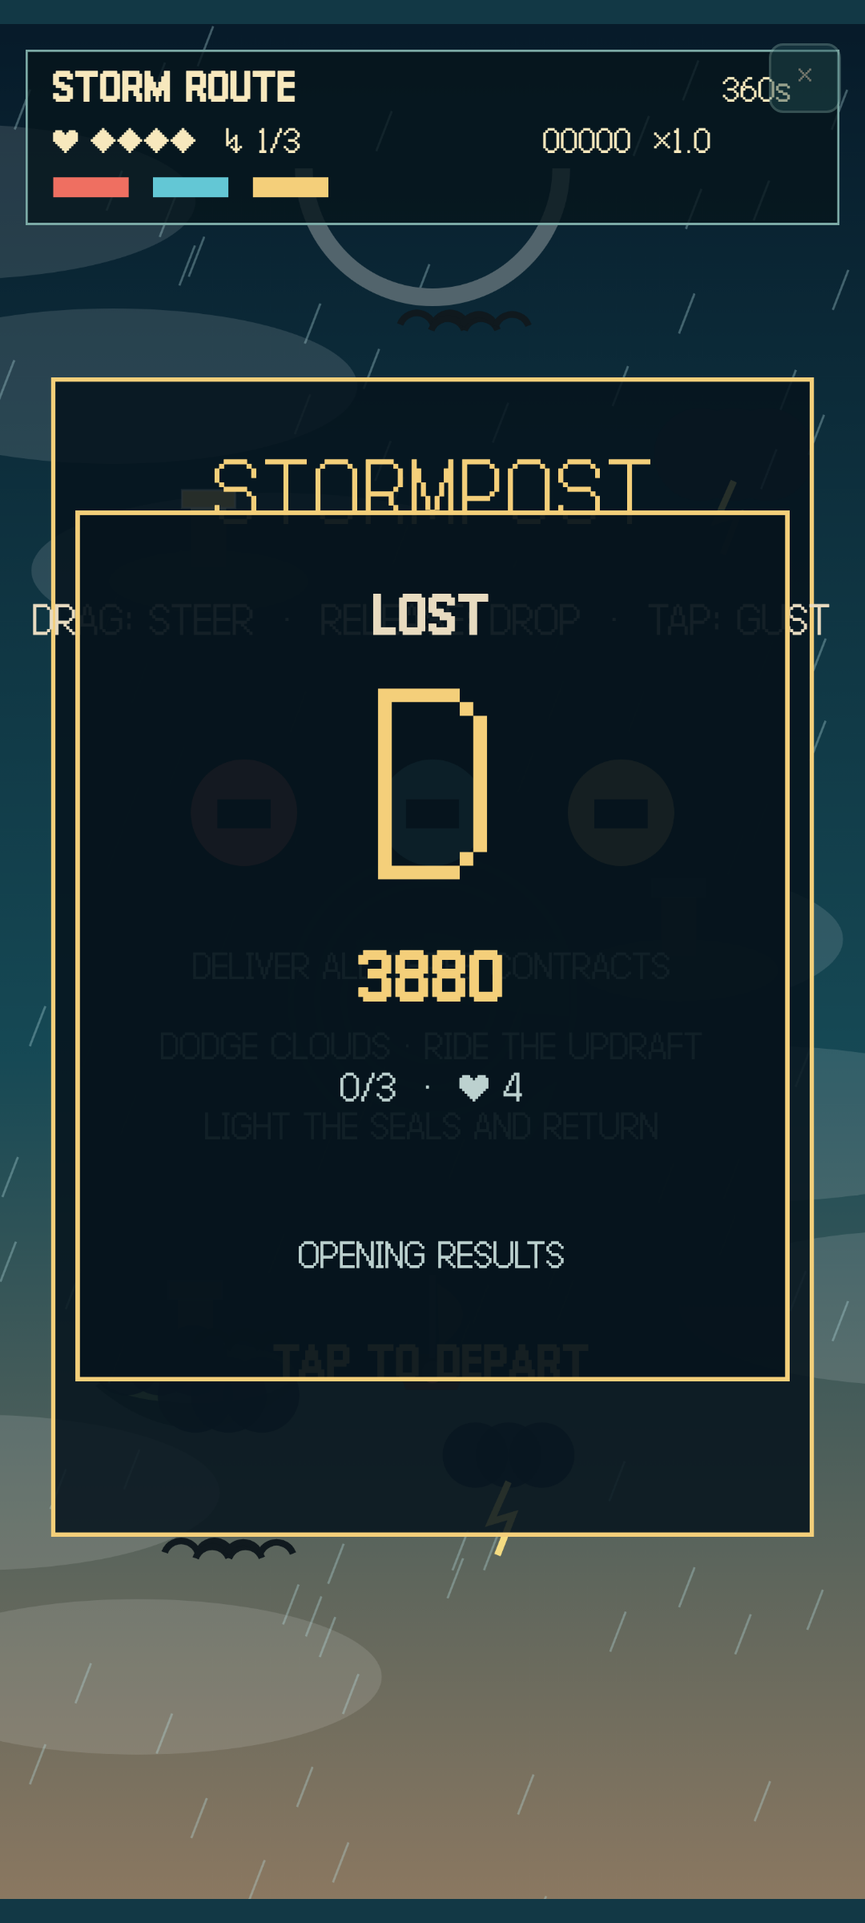
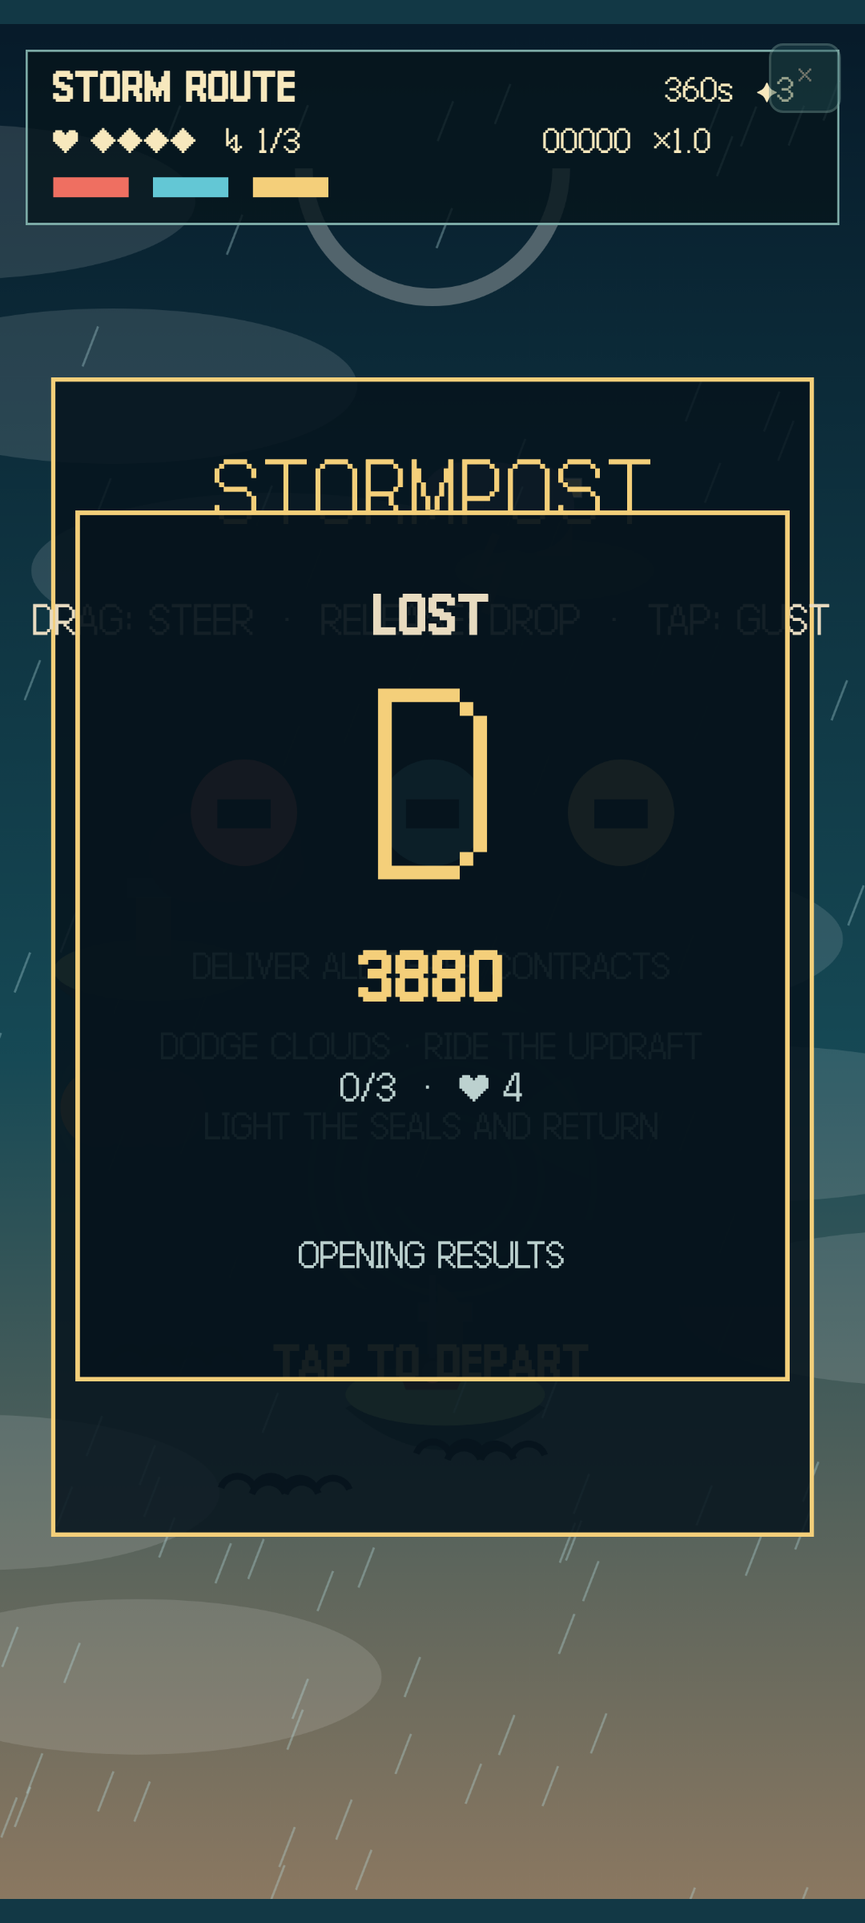
Complete locked Stormpost design promises

diff --git a/src/game/StormpostGame.ts b/src/game/StormpostGame.ts
@@ -2,7 +2,7 @@ import { APP_CONFIG } from '../appConfig'
 import { getLocale } from '../i18n'
 import { logicRandom } from './logicRng'
 import type { GameCallbacks, GameRuntime } from './types'
-import { canOpenGate, deliveryScore, finalScore, grade, wetFirstPending, type Letter, type Seal } from './stormpostRules'
+import { canOpenGate, cosmeticTier, deliveryScore, finalScore, generateRoute, grade, lightningPhase, stampReward, wetFirstPending, type Letter, type Seal } from './stormpostRules'
 import { StormAudio } from './StormAudio'
 
 const W = APP_CONFIG.designWidth
@@ -15,7 +15,7 @@ const tr = {
 }
 
 type Island = { x: number; y: number; seal: Seal; pulse: number }
-type Hazard = { x: number; y: number; vx: number; kind: 'cloud' | 'birds'; r: number }
+type Hazard = { x: number; y: number; vx: number; vy:number; age:number; kind: 'cloud' | 'birds'; r: number }
 type Rain = { x: number; y: number; s: number }
 
 export class StormpostGame implements GameRuntime {
@@ -45,20 +45,25 @@ export class StormpostGame implements GameRuntime {
         { seal: 'azure', wet: false, delivered: false },
         { seal: 'gold', wet: false, delivered: false },
     ]
-    private islands: Island[] = [
-        { x: 88, y: 610, seal: 'coral', pulse: 0 },
-        { x: 306, y: 430, seal: 'azure', pulse: 2 },
-        { x: 94, y: 250, seal: 'gold', pulse: 4 },
-    ]
+    private islands: Island[] = []
+    private updraft={x:W/2,y:H*.52}
     private hazards: Hazard[] = []
     private rain: Rain[] = []
     private locale: 'ko' | 'en' = 'ko'
     private resizeObs: ResizeObserver | null = null
     private audio = new StormAudio()
+    private routeOffset=0
+    private stamps=0
+    private cosmetic=0
 
     async mount(container: HTMLElement, callbacks: GameCallbacks): Promise<void> {
         this.cb = callbacks
         this.locale = getLocale() === 'en' ? 'en' : 'ko'
+        const route=generateRoute(logicRandom)
+        this.islands=route.islands.map((x,i)=>({...x,pulse:i*2}))
+        this.updraft=route.updraft
+        try{this.stamps=Number(localStorage.getItem('stormpost:stamps')||0)||0}catch{this.stamps=0}
+        this.cosmetic=cosmeticTier(this.stamps)
         this.canvas = document.createElement('canvas')
         // Backing store covers the largest supported phone even when the
         // letterboxed CSS canvas grows beyond the 390px design width.
@@ -74,7 +79,7 @@ export class StormpostGame implements GameRuntime {
             this.canvas.style.width = `${W * scale}px`; this.canvas.style.height = `${H * scale}px`
         }
         fit(); this.resizeObs = new ResizeObserver(fit); this.resizeObs.observe(container)
-        for (let i = 0; i < 9; i++) this.hazards.push({ x: 35 + logicRandom() * 320, y: 120 + logicRandom() * 580, vx: (logicRandom() - .5) * 25, kind: i % 3 ? 'cloud' : 'birds', r: 19 + logicRandom() * 12 })
+        for (let i = 0; i < 9; i++) this.hazards.push({ x: 35 + logicRandom() * 320, y: 120 + logicRandom() * 580, vx: (logicRandom() - .5) * 25, vy:18+logicRandom()*18, age:logicRandom()*4, kind: i % 3 ? 'cloud' : 'birds', r: 19 + logicRandom() * 12 })
         for (let i = 0; i < 100; i++) this.rain.push({ x: logicRandom() * W, y: logicRandom() * H, s: 250 + logicRandom() * 300 })
         this.bind()
         ;(globalThis as any).__forceGameOver = () => this.finish(canOpenGate(this.letters))
@@ -127,7 +132,7 @@ export class StormpostGame implements GameRuntime {
         this.raf = requestAnimationFrame(this.loop)
     }
     private update(dt: number) {
-        this.elapsed += dt; this.ship.inv = Math.max(0, this.ship.inv-dt); this.messageTime -= dt; this.flash = Math.max(0, this.flash-dt)
+        this.elapsed += dt; this.routeOffset=(this.routeOffset+dt*14)%H; this.ship.inv = Math.max(0, this.ship.inv-dt); this.messageTime -= dt; this.flash = Math.max(0, this.flash-dt)
         let tx = this.ship.x, ty = this.ship.y
         if (this.pointer) { tx = this.pointer.x; ty = this.pointer.y }
         if (this.keys.has('arrowleft') || this.keys.has('a')) tx -= 100
@@ -140,11 +145,13 @@ export class StormpostGame implements GameRuntime {
         this.ship.y = Math.max(100, Math.min(H-38, this.ship.y+this.ship.vy*dt))
         this.ship.angle = this.ship.vx * .006
         this.audio.update((this.ship.x/W-.5)*2,Math.hypot(this.ship.vx,this.ship.vy))
-        const inLift = Math.hypot(this.ship.x-W/2, this.ship.y-H*.52) < 72
+        const inLift = Math.hypot(this.ship.x-this.updraft.x, this.ship.y-this.updraft.y) < 72
         if (inLift) { this.charge += dt; if (this.charge > 2.5 && this.gust < 3) { this.gust++; this.charge = 0; this.audio.tone('sail',(this.ship.x/W-.5)*2) } }
         for (const h of this.hazards) {
-            h.x += h.vx*dt; if (h.x < -30) h.x=W+30; if (h.x>W+30) h.x=-30
-            if (this.ship.inv <= 0 && Math.hypot(this.ship.x-h.x,this.ship.y-h.y)<h.r+17) this.hit(h.x)
+            h.age+=dt;h.x += h.vx*dt;h.y+=h.vy*dt;if(h.y>H+35)h.y=95
+            if (h.x < -30) h.x=W+30; if (h.x>W+30) h.x=-30
+            const dangerous=h.kind==='birds'||lightningPhase(h.age)==='active'
+            if (dangerous&&this.ship.inv <= 0 && Math.hypot(this.ship.x-h.x,this.ship.y-h.y)<h.r+17) this.hit(h.x)
         }
         for (const r of this.rain) { r.y += r.s*dt; r.x -= r.s*.12*dt; if (r.y>H) { r.y=-10;r.x=logicRandom()*W } if(r.x<0)r.x=W }
         if (canOpenGate(this.letters) && this.ship.y < 122 && Math.abs(this.ship.x-W/2)<72) this.finish(true)
@@ -184,6 +191,7 @@ export class StormpostGame implements GameRuntime {
         if(this.over)return;this.over=true;this.endedAt=performance.now();this.audio.setPaused(true)
         const total=finalScore(this.score,RUN_SECONDS-this.elapsed,this.ship.hull)
         this.result={score:total,grade:grade(total,rescued)}
+        this.stamps+=stampReward(total);try{localStorage.setItem('stormpost:stamps',String(this.stamps))}catch{/* sandboxed arcade keeps run-local stamps */}this.cosmetic=cosmeticTier(this.stamps)
         ;(globalThis as any).__gameOverUiBoxes=[{name:'result',x:35,y:220,w:320,h:390}]
         this.cb.onGameOver({score:total,phase:this.letters.filter(l=>l.delivered).length})
     }
@@ -202,7 +210,7 @@ export class StormpostGame implements GameRuntime {
     private draw(t:number) {
         const c=this.ctx;c.save();c.clearRect(0,0,W,H)
         const sky=c.createLinearGradient(0,0,0,H);sky.addColorStop(0,'#071b2a');sky.addColorStop(.55,'#164955');sky.addColorStop(1,'#8b7861');c.fillStyle=sky;c.fillRect(0,0,W,H)
-        c.globalAlpha=.12;c.fillStyle='#fff';for(let i=0;i<9;i++){c.beginPath();c.ellipse((i*73+t*8)%500-50,80+i*83,110,35,0,0,7);c.fill()}c.globalAlpha=1
+        c.globalAlpha=.12;c.fillStyle='#fff';for(let i=0;i<9;i++){c.beginPath();c.ellipse((i*73+t*8)%500-50,(80+i*83+this.routeOffset)%H,110,35,0,0,7);c.fill()}c.globalAlpha=1
         this.drawLift(c,t); this.islands.forEach(x=>this.drawIsland(c,x,t)); this.hazards.forEach(h=>this.drawHazard(c,h,t))
         c.strokeStyle='rgba(190,230,232,.32)';c.lineWidth=1;for(const r of this.rain){c.beginPath();c.moveTo(r.x,r.y);c.lineTo(r.x-7,r.y+18);c.stroke()}
         this.drawGate(c,t);this.drawShip(c,t);this.drawHud(c)
@@ -210,12 +218,12 @@ export class StormpostGame implements GameRuntime {
         if(this.flash){c.fillStyle=`rgba(255,255,255,${this.flash*2})`;c.fillRect(0,0,W,H)}
         c.restore()
     }
-    private drawLift(c:CanvasRenderingContext2D,t:number){c.save();c.translate(W/2,H*.52);for(let i=0;i<4;i++){c.strokeStyle=`rgba(116,231,210,${.15+i*.05})`;c.lineWidth=3;c.beginPath();c.arc(0,0,28+i*12,(t+i)*1.3,(t+i)*1.3+4.4);c.stroke()}c.fillStyle='#a5f1d222';c.beginPath();c.ellipse(0,0,62,90,0,0,7);c.fill();c.restore()}
+    private drawLift(c:CanvasRenderingContext2D,t:number){c.save();c.translate(this.updraft.x,this.updraft.y);for(let i=0;i<4;i++){c.strokeStyle=`rgba(116,231,210,${.15+i*.05})`;c.lineWidth=3;c.beginPath();c.arc(0,0,28+i*12,(t+i)*1.3,(t+i)*1.3+4.4);c.stroke()}c.fillStyle='#a5f1d222';c.beginPath();c.ellipse(0,0,62,90,0,0,7);c.fill();c.restore()}
     private drawIsland(c:CanvasRenderingContext2D,i:Island,t:number){c.save();c.translate(i.x,i.y+Math.sin(t+i.pulse)*3);c.fillStyle='#253d3c';c.beginPath();c.moveTo(-45,4);c.quadraticCurveTo(0,42,45,4);c.quadraticCurveTo(0,-18,-45,4);c.fill();c.fillStyle='#6f8d62';c.beginPath();c.ellipse(0,-2,45,14,0,0,7);c.fill();c.fillStyle='#e9d6a0';c.fillRect(-8,-38,16,30);c.fillStyle=colors[i.seal];c.fillRect(-12,-43,24,8);c.strokeStyle='#fff8';c.strokeRect(-12,-43,24,8);c.restore()}
-    private drawHazard(c:CanvasRenderingContext2D,h:Hazard,t:number){c.save();c.translate(h.x,h.y);if(h.kind==='birds'){c.strokeStyle='#10191e';c.lineWidth=3;for(let i=-1;i<=1;i++){c.beginPath();c.arc(i*14,Math.sin(t*4+i)*5,8,3.5,5.9);c.stroke();c.beginPath();c.arc(i*14+15,Math.sin(t*4+i)*5,8,3.5,5.9);c.stroke()}}else{c.fillStyle='#1d2a38dd';for(let i=-1;i<2;i++){c.beginPath();c.arc(i*15,0,h.r*.7,0,7);c.fill()}c.strokeStyle='#f5dc82';c.lineWidth=3;if(Math.sin(t*3+h.x)>.82){c.beginPath();c.moveTo(0,12);c.lineTo(-8,30);c.lineTo(2,27);c.lineTo(-5,45);c.stroke()}}c.restore()}
+    private drawHazard(c:CanvasRenderingContext2D,h:Hazard,t:number){c.save();c.translate(h.x,h.y);if(h.kind==='birds'){c.strokeStyle='#10191e';c.lineWidth=3;for(let i=-1;i<=1;i++){c.beginPath();c.arc(i*14,Math.sin(t*4+i)*5,8,3.5,5.9);c.stroke();c.beginPath();c.arc(i*14+15,Math.sin(t*4+i)*5,8,3.5,5.9);c.stroke()}}else{const phase=lightningPhase(h.age);c.fillStyle=phase==='warning'?'#7a6844':phase==='active'?'#34425a':'#1d2a38dd';for(let i=-1;i<2;i++){c.beginPath();c.arc(i*15,0,h.r*.7,0,7);c.fill()}if(phase==='warning'){c.strokeStyle=`rgba(255,220,100,${.45+.45*Math.sin(t*14)})`;c.lineWidth=3;c.beginPath();c.arc(0,0,h.r+8,0,7);c.stroke()}if(phase==='active'){c.strokeStyle='#f5dc82';c.lineWidth=4;c.beginPath();c.moveTo(0,12);c.lineTo(-8,30);c.lineTo(2,27);c.lineTo(-5,48);c.stroke()}}c.restore()}
     private drawGate(c:CanvasRenderingContext2D,t:number){const open=canOpenGate(this.letters);c.save();c.translate(W/2,65);c.strokeStyle=open?'#f4cf7a':'#52646c';c.lineWidth=8;c.beginPath();c.arc(0,0,58,0,Math.PI);c.stroke();if(open){c.strokeStyle=`rgba(244,207,122,${.4+.3*Math.sin(t*4)})`;c.lineWidth=18;c.stroke()}c.restore()}
-    private drawShip(c:CanvasRenderingContext2D,t:number){const s=this.ship;c.save();c.translate(s.x,s.y);c.rotate(s.angle);c.globalAlpha=s.inv&&Math.sin(t*24)>0?.35:1;c.fillStyle='#6c412c';c.beginPath();c.moveTo(-18,8);c.lineTo(18,8);c.lineTo(11,24);c.lineTo(-12,24);c.closePath();c.fill();c.strokeStyle='#ead8ac';c.lineWidth=3;c.beginPath();c.moveTo(0,10);c.lineTo(0,-28);c.stroke();c.fillStyle='#f1c77c';c.beginPath();c.moveTo(2,-24);c.quadraticCurveTo(25,-8+Math.sin(t*5)*3,3,5);c.closePath();c.fill();c.fillStyle='#ef6f61';c.beginPath();c.arc(0,16,5,0,7);c.fill();c.restore()}
-    private drawHud(c:CanvasRenderingContext2D){c.fillStyle='#06151ccc';c.fillRect(12,12,W-24,78);c.strokeStyle='#7ba9a5';c.strokeRect(12,12,W-24,78);c.fillStyle='#f7e8bd';c.font='bold 15px Galmuri11';c.fillText(tr[this.locale].route,24,35);c.font='12px Galmuri11';c.fillText(`${Math.max(0,Math.ceil(RUN_SECONDS-this.elapsed))}s`,326,35);c.fillText(`♥ ${'◆'.repeat(this.ship.hull)}  ↯ ${this.gust}/3`,24,58);c.fillText(`${this.score.toString().padStart(5,'0')}  ×${(1+this.combo*.5).toFixed(1)}`,245,58);this.letters.forEach((l,n)=>{c.fillStyle=l.delivered?'#76937b':colors[l.seal];c.fillRect(24+n*45,69,34,9);if(l.wet&&!l.delivered){c.fillStyle='#7fa9be';c.fillRect(26+n*45,71,30,5)}});if(this.messageTime>0){c.fillStyle='#071b2add';c.fillRect(45,108,300,36);c.fillStyle='#fff3cd';c.textAlign='center';c.fillText(this.message,W/2,132);c.textAlign='left'}}
+    private drawShip(c:CanvasRenderingContext2D,t:number){const s=this.ship;c.save();c.translate(s.x,s.y);c.rotate(s.angle);c.globalAlpha=s.inv&&Math.sin(t*24)>0?.35:1;c.fillStyle=this.cosmetic>=1?'#8b5936':'#6c412c';c.beginPath();c.moveTo(-18,8);c.lineTo(18,8);c.lineTo(11,24);c.lineTo(-12,24);c.closePath();c.fill();c.strokeStyle='#ead8ac';c.lineWidth=3;c.beginPath();c.moveTo(0,10);c.lineTo(0,-28);c.stroke();c.fillStyle=this.cosmetic>=2?'#8fd6c8':'#f1c77c';c.beginPath();c.moveTo(2,-24);c.quadraticCurveTo(25,-8+Math.sin(t*5)*3,3,5);c.closePath();c.fill();if(this.cosmetic>=3){c.strokeStyle='#f4cf7a';c.beginPath();c.arc(0,12,27,0,7);c.stroke()}c.fillStyle='#ef6f61';c.beginPath();c.arc(0,16,5,0,7);c.fill();c.restore()}
+    private drawHud(c:CanvasRenderingContext2D){c.fillStyle='#06151ccc';c.fillRect(12,12,W-24,78);c.strokeStyle='#7ba9a5';c.strokeRect(12,12,W-24,78);c.fillStyle='#f7e8bd';c.font='bold 15px Galmuri11';c.fillText(tr[this.locale].route,24,35);c.font='12px Galmuri11';c.fillText(`${Math.max(0,Math.ceil(RUN_SECONDS-this.elapsed))}s  ✦${this.stamps}`,300,35);c.fillText(`♥ ${'◆'.repeat(this.ship.hull)}  ↯ ${this.gust}/3`,24,58);c.fillText(`${this.score.toString().padStart(5,'0')}  ×${(1+this.combo*.5).toFixed(1)}`,245,58);this.letters.forEach((l,n)=>{c.fillStyle=l.delivered?'#76937b':colors[l.seal];c.fillRect(24+n*45,69,34,9);if(l.wet&&!l.delivered){c.fillStyle='#7fa9be';c.fillRect(26+n*45,71,30,5)}});if(this.messageTime>0){c.fillStyle='#071b2add';c.fillRect(45,108,300,36);c.fillStyle='#fff3cd';c.textAlign='center';c.fillText(this.message,W/2,132);c.textAlign='left'}}
     private drawIntro(c:CanvasRenderingContext2D){c.fillStyle='#06141ddd';c.fillRect(24,160,W-48,520);c.strokeStyle='#f4cf7a';c.lineWidth=2;c.strokeRect(24,160,W-48,520);c.textAlign='center';c.fillStyle='#f4cf7a';c.font='bold 31px Galmuri14';c.fillText(this.locale==='ko'?'폭풍 우편':'STORMPOST',W/2,225);c.font='15px Galmuri11';c.fillStyle='#e8dbc0';c.fillText(tr[this.locale].drag,W/2,275);this.letters.forEach((l,n)=>{c.fillStyle=colors[l.seal];c.beginPath();c.arc(110+n*85,355,24,0,7);c.fill();c.fillStyle='#071b2a';c.fillRect(98+n*85,349,24,13)});c.fillStyle='#bcd1cf';c.font='13px Galmuri11';const lines=this.locale==='ko'?['세 계약을 배달하세요','구름과 새를 피하고 상승 기류를 타세요','모든 봉인이 켜지면 관문으로 귀환합니다']:['DELIVER ALL THREE CONTRACTS','DODGE CLOUDS · RIDE THE UPDRAFT','LIGHT THE SEALS AND RETURN'];lines.forEach((x,i)=>c.fillText(x,W/2,430+i*36));c.fillStyle='#f4cf7a';c.font='bold 17px Galmuri11';c.fillText(tr[this.locale].tap,W/2,610);c.textAlign='left'}
     private overlay(c:CanvasRenderingContext2D,a:string,b:string){c.fillStyle='#06141de8';c.fillRect(0,0,W,H);c.textAlign='center';c.fillStyle='#f4cf7a';c.font='bold 26px Galmuri14';c.fillText(a,W/2,H/2);c.font='14px Galmuri11';c.fillText(b,W/2,H/2+44);c.textAlign='left'}
     private drawResult(c:CanvasRenderingContext2D){c.fillStyle='#06141df0';c.fillRect(35,220,320,390);c.strokeStyle='#f4cf7a';c.lineWidth=2;c.strokeRect(35,220,320,390);c.textAlign='center';c.fillStyle='#e8dbc0';c.font='bold 20px Galmuri11';c.fillText(this.result.grade==='D'?tr[this.locale].lost:tr[this.locale].return,W/2,275);c.fillStyle='#f4cf7a';c.font='bold 92px Galmuri14';c.fillText(this.result.grade,W/2,385);c.font='bold 25px Galmuri11';c.fillText(this.result.score.toString(),W/2,440);c.font='14px Galmuri11';c.fillStyle='#bcd1cf';c.fillText(`${this.letters.filter(l=>l.delivered).length}/3  ·  ♥ ${this.ship.hull}`,W/2,485);c.font='13px Galmuri11';c.fillText(this.locale==='ko'?'결과 화면으로 이동합니다':'OPENING RESULTS',W/2,560);c.textAlign='left'}

diff --git a/src/game/stormpostRules.test.ts b/src/game/stormpostRules.test.ts
@@ -1,5 +1,5 @@
 import { describe, expect, it } from 'vitest'
-import { canOpenGate, deliveryScore, finalScore, grade, wetFirstPending, type Letter } from './stormpostRules'
+import { canOpenGate, cosmeticTier, deliveryScore, finalScore, generateRoute, grade, lightningPhase, stampReward, wetFirstPending, type Letter } from './stormpostRules'
 
 const letters = (): Letter[] => [
     { seal: 'coral', wet: false, delivered: false },
@@ -29,5 +29,23 @@ describe('Stormpost delivery contract', () => {
         expect(finalScore(3000, 10.9, 3)).toBe(3830)
         expect(grade(5200, true)).toBe('S')
         expect(grade(9999, false)).toBe('D')
+    })
+    it('creates a reproducible seeded route with bounded islands and lift',()=>{
+        const seq=[.1,.8,.4,.6];let i=0
+        const a=generateRoute(()=>seq[i++%seq.length]);i=0
+        const b=generateRoute(()=>seq[i++%seq.length])
+        expect(a).toEqual(b)
+        expect(a.islands.map(x=>x.seal)).toEqual(['coral','azure','gold'])
+        expect(a.islands.every(x=>x.x>=62&&x.x<=328)).toBe(true)
+        expect(a.updraft.x).toBeGreaterThanOrEqual(72)
+    })
+    it('stages lightning warning before damage and cooldown',()=>{
+        expect(lightningPhase(.5)).toBe('warning')
+        expect(lightningPhase(1.2)).toBe('active')
+        expect(lightningPhase(2)).toBe('cooldown')
+    })
+    it('awards persistent stamp quantities and cosmetic thresholds',()=>{
+        expect(stampReward(3999)).toBe(3)
+        expect([3,4,9,15].map(cosmeticTier)).toEqual([0,1,2,3])
     })
 })

diff --git a/src/game/stormpostRules.ts b/src/game/stormpostRules.ts
@@ -1,5 +1,9 @@
 export type Seal = 'coral' | 'azure' | 'gold'
 export type Letter = { seal: Seal; wet: boolean; delivered: boolean }
+export type RouteLayout = {
+    islands: { x:number; y:number; seal:Seal }[]
+    updraft: { x:number; y:number }
+}
 
 export const DELIVERY_RADIUS = 42
 
@@ -34,4 +38,24 @@ export function wetFirstPending(letters: Letter[]): Letter[] {
 
 export function canOpenGate(letters: Letter[]): boolean {
     return letters.length === 3 && letters.every(letter => letter.delivered)
+}
+
+export function generateRoute(random:()=>number):RouteLayout {
+    const seals:Seal[]=['coral','azure','gold']
+    const ys=[620,430,245]
+    const islands=seals.map((seal,i)=>({seal,y:ys[i],x:62+random()*266}))
+    // Central lift stays at least 68px from every mailbox, leaving a readable
+    // approach corridor while its horizontal position remains seed-driven.
+    let x=80+random()*230
+    for(const island of islands) if(Math.abs(x-island.x)<68)x+=x<195?68:-68
+    return {islands,updraft:{x:Math.max(72,Math.min(318,x)),y:520}}
+}
+
+export function stampReward(score:number){return Math.max(0,Math.floor(score/1000))}
+export function cosmeticTier(stamps:number){return stamps>=15?3:stamps>=9?2:stamps>=4?1:0}
+
+export type LightningPhase='warning'|'active'|'cooldown'
+export function lightningPhase(age:number):LightningPhase {
+    const cycle=((age%4)+4)%4
+    return cycle<1?'warning':cycle<1.65?'active':'cooldown'
 }

diff --git a/DAY.md b/DAY.md
@@ -19,17 +19,20 @@
 
 - `npm test`
   - 배달 반경, 정밀·건조·콤보 점수, 충돌 시 미배달 편지 침수 순서, 세 계약 완료 전 관문 잠금, 귀환 보너스와 등급 경계를 확인했다.
-  - 결과: 테스트 파일 4개, 테스트 25개 통과.
+  - 결과: 테스트 파일 4개, 테스트 28개 통과. 시드 항로, 번개 상태, 우표 보상·외형 단계 테스트를 포함한다.
 - `npm run build`
   - TypeScript 검사와 프로덕션 웹 번들을 확인했다.
-  - 결과: 성공. 메인 JS 236.51 kB(77.47 kB gzip). Capacitor 동적/정적 import 경고 1건, 빌드 오류 없음.
+  - 결과: 성공. 메인 JS 237.83 kB(77.99 kB gzip). Capacitor 동적/정적 import 경고 1건, 빌드 오류 없음.
 - `npm run build:arcade`
   - 불변 릴리스 파일 생성과 필수 파일 해시 검증을 확인했다.
-  - 결과: 성공. 5개 파일, 1,615,455 bytes, JS gzip 91,866 bytes. `verify-release` 통과.
+  - 결과: 성공. 5개 파일, 1,617,121 bytes, JS gzip 92,423 bytes. `verify-release` 통과.
+- `npm run csp`
+  - 아케이드 샌드박스 CSP, 외부 스타일, 캔버스 배치와 필수 자산을 확인했다.
+  - 결과: 통과. CSP 위반·오류·누락 자산 0.
 - `npm run smoke -- 17 90000`
   - 실제 포인터 반응, 한 판 종료, 셸 결과 전달, 결과 화면 탭 재시작, 페이지·콘솔 오류를 확인했다.
-  - 결과: 성공. `mounted`, `interactionVerified`, `finished`, `resultDelivered`, `restartVerified` 모두 `true`; 오류 0.
[1 lines of base64/hex data omitted]
+  - 결과: deployment-only 모드 성공. `mounted=true`, 콘솔·페이지 오류 0.
[1 lines of base64/hex data omitted]
 - `npm run viewport`
   - 360×800, 390×844, 430×932 및 900×760에서 standalone/portal 레터박스, DPR 백킹 스토어, 페이지 넘침을 확인했다.
   - 한국어·영어 결과 화면은 가장 작은 360×800 standalone/portal에서 강제 종료 후 경계를 확인했다.
@@ -38,6 +41,7 @@
   - 기존 `package-lock.json`을 복원했다. 새 의존성이나 버전 변경은 하지 않았다.
   - Sonatype 검사는 연결 인증 토큰 부재로 수행하지 못했다. npm 감사 결과는 48건(낮음 15, 보통 5, 높음 24, 치명적 4)이며 템플릿 의존성 트리의 보안 검토가 남았다.
 - 합성 음향 자체 대조: 첫 입력 전에는 AudioContext를 만들지 않고, 첫 입력 뒤 바람 드론·좌우 패닝·돛 장력·돌풍·충돌·배달·관문 화음을 연결했다. M 음소거, P/백그라운드/결과 suspend, 재시작 resume, destroy close를 소스와 오류 없는 브라우저 실행으로 확인했다.
+- 체르파 누락 보완: 시드 기반 세 섬·상승 기류, 하향 위험과 구름층 전진, 경고 후 활성 번개, 종료 점수 우표와 4/9/15 외형을 구현·테스트했다.
 - 수동 미확인: 실제 모바일 기기의 햅틱 강도와 음량·공간감, 장시간 6분 밸런스, Toss 컨테이너.
 
 ## 결과

diff --git a/GDD.md b/GDD.md
@@ -32,13 +32,13 @@
 - 편지 상태: 각 편지는 `dry` 또는 `wet`. 충돌 시 아직 배달하지 않은 첫 편지가 젖는다.
 - 돌풍: 최대 3칸. 상승 기류에 머문 시간으로 충전하며 시작 시 1칸을 보유한다.
 - 긴급 특송: 황색 계약. 마지막에 배달하면 500점, 두 번째 이전에 배달하면 900점.
-- 우표: 종료 점수 1,000점당 1개를 로컬에 누적한다. 4/9/15개에서 선체 장식·돛·돌풍 외형이 차례로 열린다(성능 증가는 없다).
+- 우표: 종료 점수 1,000점당 1개를 로컬에 누적한다. 4개에서 밝은 선체, 9개에서 청록 돛, 15개에서 금빛 돌풍 고리 외형이 열린다(성능 증가는 없다). 저장이 금지된 샌드박스에서는 현재 실행에만 누적한다.
 
 ## 절차 항로
 
-- 시드에 따라 섬의 좌우 위치, 구름·새·상승 기류 배치를 만든다.
+- 시드에 따라 세 섬과 상승 기류의 좌우 위치, 구름·새 배치를 만든다. 구름층 스크롤이 전진 카메라 감각을 만든다.
 - 세 목적지는 항상 서로 다른 색이며 시작점에서 관문까지 진행 가능한 안전 통로가 남는다.
-- 위험은 시간에 따라 아래로 흐르고, 새 떼는 횡단한다. 번개는 경고 섬광 뒤 활성화된다.
+- 위험은 아래로 흐르고 화면 아래를 지난 뒤 상단으로 순환하며, 새 떼는 횡단한다. 번개 구름은 1초 경고 → 0.65초 활성 → 쿨다운을 순환하고 활성 구간에만 피해를 준다.
 
 ## 입력·접근성
 

diff --git a/ART.md b/ART.md
@@ -10,6 +10,7 @@
 - 생성·제작 방식: 제작자가 TypeScript Canvas 도형(베지어 돛, 타원형 구름·섬, 선형 비, 호 형태 상승 기류)과 CSS 도형으로 직접 구현했다.
 - 후가공: 투명도 레이어, 선형 그라디언트, 화면 섬광, 사인파 부유 애니메이션을 런타임에서 합성한다.
 - 사용 위치: 타이틀, 항로, HUD, 계약·결과 화면 전체.
+- 절차 변형: 시드로 섬·상승 기류·위험 위치를 정하고, 누적 우표 4/9/15에서 선체 색·돛 색·금빛 돌풍 고리를 코드 도형으로 바꾼다.
 
 ## 게임 사운드
 
